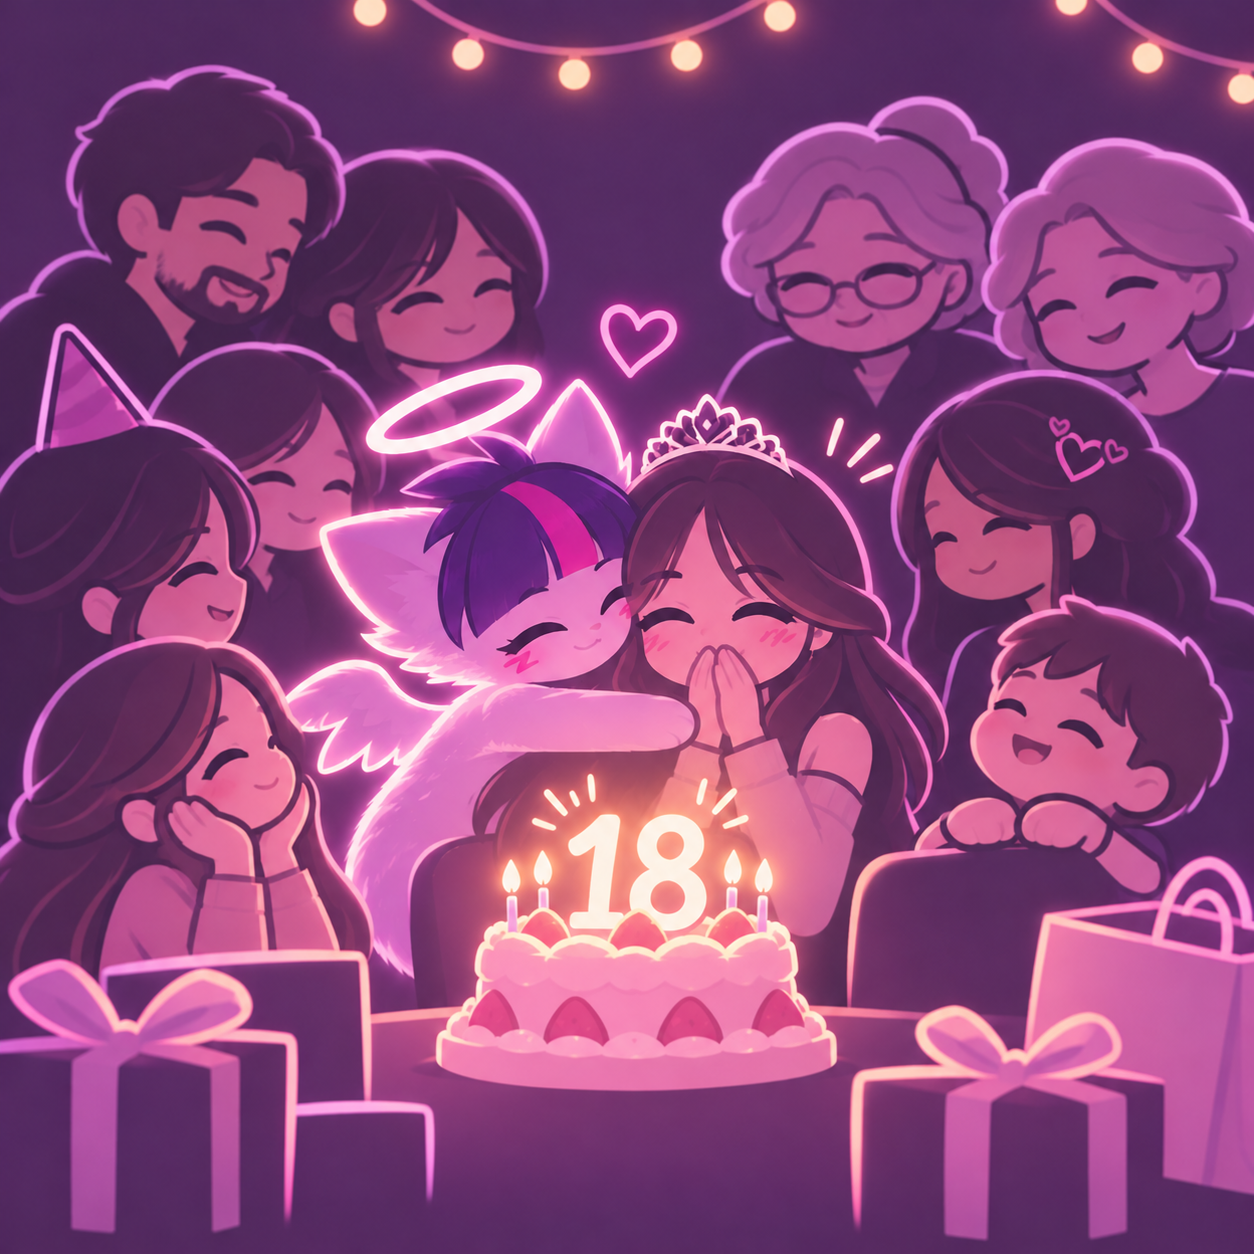
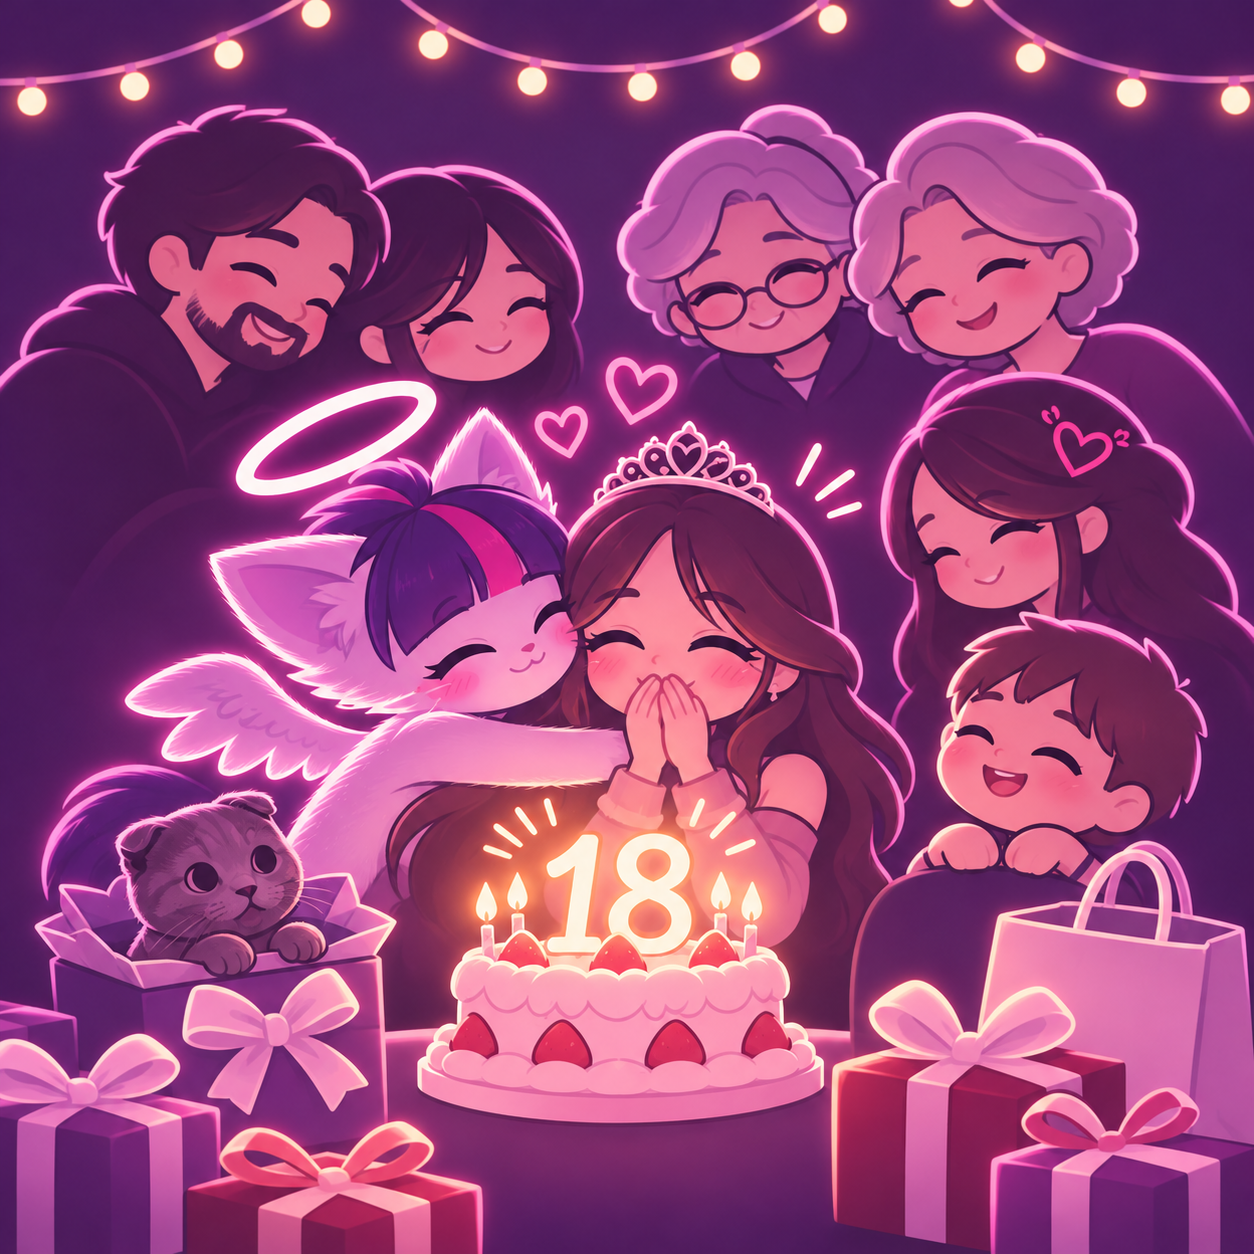
fix: refresh family birthday image and center final diary card

diff --git a/src/content/album.ts b/src/content/album.ts
@@ -373,7 +373,7 @@ export const albumIllustrations: readonly AlbumIllustration[] = [
     note: 'Вся семья рядом, а Иксик обнимает издалека',
     dialogue:
       'С восемнадцатилетием, моя любимая Алина! На этой картинке вся твоя семья собралась вокруг тебя, а Иксик тоже тянется обнять именинницу. Хоть я сейчас далеко, мыслями и всем сердцем я рядом с тобой. Желаю тебе здоровья, смелости идти за своими мечтами и столько счастливых дней, чтобы этот год хотелось вспоминать с улыбкой. Пусть рядом всегда будут любовь и поддержка. Я очень люблю тебя, моя Алина Гомер. Твой Никита, твой зайка.',
-    alt: 'Алина празднует восемнадцатилетие с семьёй у торта с цифрой 18, а светящийся Иксик с нимбом нежно обнимает её',
+    alt: 'Алина празднует восемнадцатилетие с семьёй у торта с цифрой 18; светящийся Иксик с нимбом обнимает её, а серый Тишка выглядывает из подарочной коробки',
     width: 1254,
     height: 1254,
     priority: true,

diff --git a/src/features/album/album.css b/src/features/album/album.css
@@ -497,3 +497,24 @@
   font: 700 15px/1.5 var(--sans);
   white-space: nowrap;
 }
+
+.album-grid > .album-card-main {
+  grid-column: 1 / -1;
+  justify-self: center;
+  width: min(100%, 620px);
+}
+.album-grid .album-card-main .album-image {
+  width: min(100%, 340px);
+  margin-inline: auto;
+}
+.album-grid .album-card-main figcaption {
+  display: grid;
+  grid-template-columns: 24px minmax(0, 1fr) 24px;
+  align-items: start;
+}
+.album-grid .album-card-main figcaption > span:nth-child(2) {
+  text-align: center;
+}
+.album-grid .album-card-main .album-heart {
+  margin-left: 0;
+}
